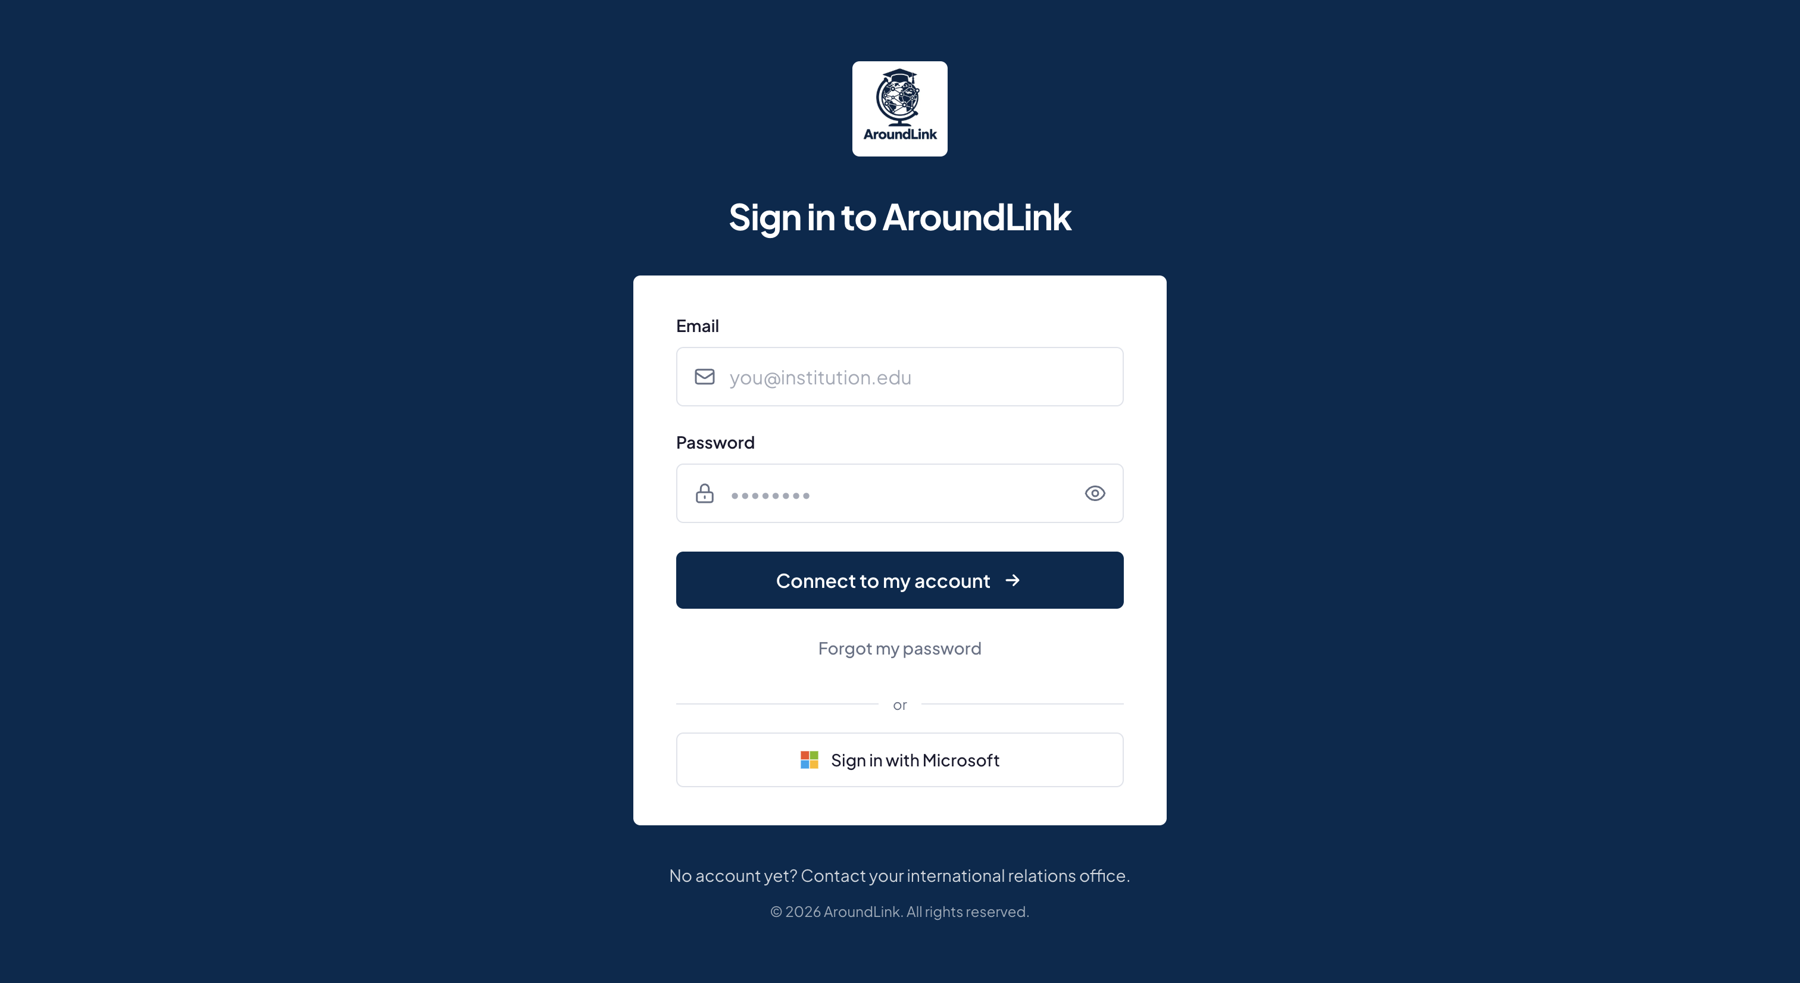
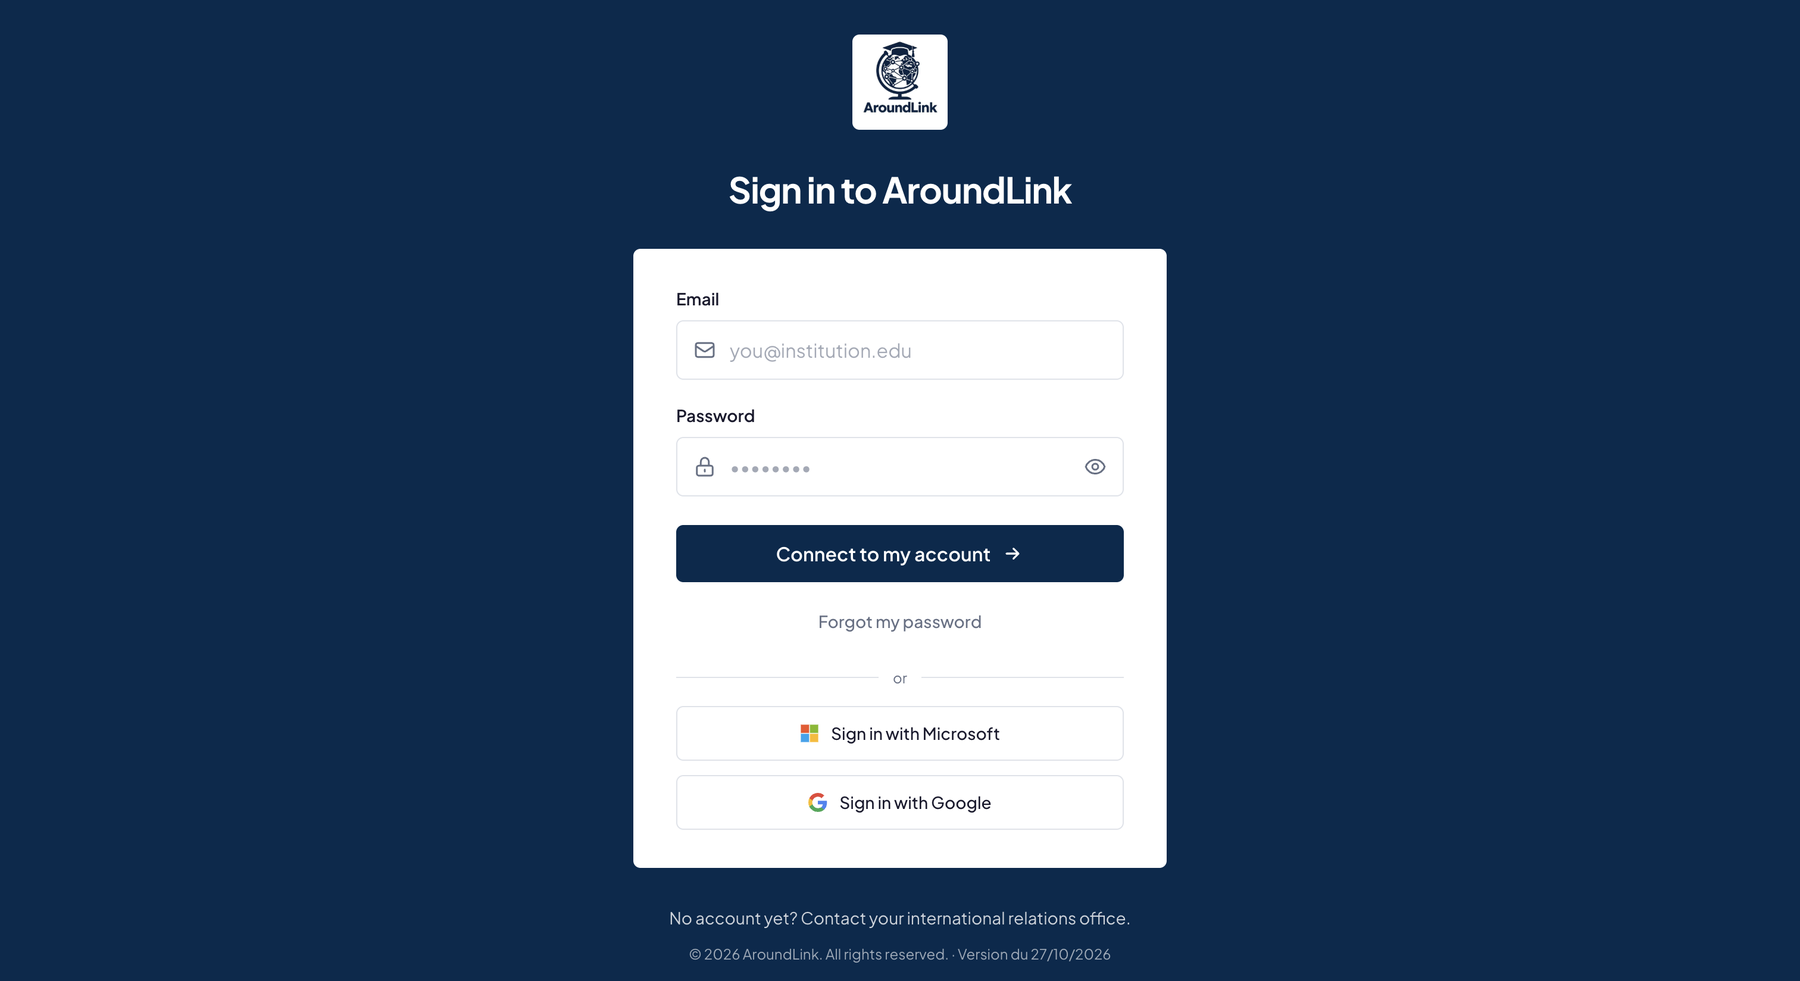
docs: la connexion Google à l'écran, l'import des cours, et la liste de ce qui manque
Trois captures du 01/11, et une fonctionnalité que j'avais classée à tort
comme un ajustement.

- connexion.png : REMPLACÉE. L'ancienne (31/08) ne montrait que Microsoft ;
  la légende promettait Google depuis hier sans que l'image le montre.
- import-cours.png : l'écran dit ce qu'il exige AVANT qu'on ouvre le fichier.
  La section gagne ce que je ne pouvais pas deviner du code seul : les trois
  temps, l'ordre de vérification des identifiants, le réimport qui met à jour
  au lieu de dupliquer, et la colonne renommée lue comme manquante.
- things-to-do.png : une VRAIE fonctionnalité. Je l'avais rangée dans les
  ajustements ; la capture montre qu'elle nomme la CONSÉQUENCE de chaque
  manque — « vos partenaires vous écrivent pour les demander » — et non un
  pourcentage. Section neuve dans Mon établissement, avec la règle qui la
  rend supportable : elle disparaît quand il n'y a plus rien.

Changed region(s): [[0.3422, 0.0306, 0.6533, 0.6728], [0.3422, 0.7339, 0.6533, 0.9786]]

diff --git a/docs/etablissement/partenaires.fr.md b/docs/etablissement/partenaires.fr.md
@@ -375,7 +375,17 @@ Deux colonnes le résument dans la liste : **Open to** — les promotions — et
 vous repartez de contrats pédagogiques signés il y a des années, la saisie manuelle n'est
 pas tenable — et c'est pourtant là que se trouve la matière la plus utile à vos étudiants.
 
-**Comment ça marche.** Vous importez un fichier de cours sur la fiche d'un partenaire.
+**Comment ça marche.** **Paramètres ▸ Integrations ▸ Import Courses**, en trois temps :
+vous téléchargez le gabarit, vous téléversez votre fichier pour **prévisualiser chaque
+ligne** et corriger les erreurs sur place, puis vous confirmez — seules les lignes valides
+sont écrites. Excel ou CSV.
+
+Chaque ligne a besoin du **nom du cours** et d'**une façon de désigner le partenaire** :
+votre code interne, son domaine, ou son identifiant ROR — vérifiés dans cet ordre.
+
+![L'écran d'import des cours](../assets/screenshots/import-cours.png)
+
+*L'écran annonce ce qu'il exige avant que vous ouvriez le fichier : les colonnes obligatoires, les huit colonnes acceptées, et les formats.*
 
 !!! info "Le gabarit est volontairement tolérant"
     Les **crédits** et le **code ISCED** sont **facultatifs** : un contrat signé il y a cinq
@@ -383,7 +393,14 @@ pas tenable — et c'est pourtant là que se trouve la matière la plus utile à
     fichier pour une donnée que personne ne retrouvera.
 
     En revanche, **une ligne doit porter au moins un des trois identifiants** — sans quoi
-    elle est refusée : on ne saurait pas de quel cours elle parle.
+    elle est refusée : on ne saurait pas de quel partenaire elle parle.
+
+    Une colonne que le gabarit ne liste pas est simplement ignorée : vous pouvez laisser vos
+    propres notes dans le fichier. Mais une colonne **renommée** est lue comme manquante.
+
+!!! tip "Réimporter met à jour, ne duplique pas"
+    Le même fichier passé une seconde fois **met à jour** les cours au lieu d'en créer des
+    doubles. Vous pouvez donc corriger votre fichier et le repasser sans faire de ménage.
 
 !!! warning "Un cours sans crédits n'est pas un cours à zéro crédit"
     L'écran affiche un **tiret**, pas un zéro, et la donnée reste vide plutôt que fausse.

diff --git a/docs/etablissement/mon-etablissement.fr.md b/docs/etablissement/mon-etablissement.fr.md
@@ -101,6 +101,40 @@ L'écran rappelle aussi **quand vous avez annoncé pour la dernière fois**.
 > En juin, le bureau relève ses exigences d'anglais de B2 à C1. Il ouvre l'aperçu, voit
 > que l'annonce partira à 47 partenaires, et l'envoie. Aucun mail à rédiger.
 
+## Ce qu'il vous reste à remplir
+
+**À quoi ça sert.** Une fiche vide ne se signale pas toute seule. Les compteurs de l'index
+disent ce que chaque rubrique **contient** — jamais ce qui **manque**, ni ce que ça coûte.
+Un établissement peut passer des mois sans son site web renseigné : un champ, un clic, et
+rien ne le lui avait jamais dit.
+
+**Pour qui.** <span class="al-audience">gestionnaire RI / coordinateur</span>
+
+**Comment ça marche.** Une pastille **« things to do »** apparaît en bas à droite de vos
+écrans, avec le nombre de choses qui restent. Elle ouvre une liste où chaque ligne dit
+**quoi faire** et surtout **ce que ça change** :
+
+| Ce qu'il manque | Ce que ça coûte |
+|---|---|
+| Vos coordonnées | *vos étudiants et vos partenaires n'ont aucun moyen de vous joindre* |
+| Vos dates de semestre | *vos partenaires vous écrivent pour les demander* |
+| Vos niveaux de langue | *vos étudiants candidatent sans savoir s'ils sont éligibles* |
+| Les photos de votre campus | *votre page s'ouvre sur un bandeau vide* |
+| Votre catalogue de cours | *vos étudiants ne peuvent pas composer leur contrat d'études* |
+
+![La liste de ce qu'il reste à remplir](../assets/screenshots/things-to-do.png)
+
+*Ce qui reste et ce qui est fait. Chaque ligne nomme la conséquence, pas un pourcentage.*
+
+!!! note "Pas de jauge, pas de pourcentage"
+    « Vous êtes à 36 % » ne dit pas quoi faire. Une ligne qui annonce la conséquence le
+    dit — c'est elle qui fait agir, pas le chiffre.
+
+!!! tip "Elle disparaît quand il n'y a plus rien"
+    Il n'existe pas d'état « tout est fait » : quand la liste est vide, la pastille quitte
+    l'écran. Un rappel qu'on ne peut pas faire taire devient un meuble, et on cesse de le
+    voir — y compris le jour où il a quelque chose à dire.
+
 ## Modération des avis étudiants
 
 **À quoi ça sert.** Vous collectez les avis d'étudiants de retour de mobilité (note,

diff --git a/docs/etablissement/mon-etablissement.en.md b/docs/etablissement/mon-etablissement.en.md
@@ -98,6 +98,39 @@ The screen also reminds you **when you last announced**.
 > In June, the office raises its English requirement from B2 to C1. It opens the preview,
 > sees the announcement would go to 47 partners, and sends it. No email to write.
 
+## What you still have to fill in
+
+**What it's for.** An empty fiche does not announce itself. The index counters say what each
+section **contains** — never what is **missing**, nor what it costs. An institution can go
+months without its website filled in: one field, one click, and nothing ever told them.
+
+**Who it's for.** <span class="al-audience">RI manager / coordinator</span>
+
+**How it works.** A **"things to do"** pill appears at the bottom right of your screens,
+with the number of things left. It opens a list where each line says **what to do** and,
+above all, **what it changes**:
+
+| What is missing | What it costs |
+|---|---|
+| Your contact details | *students and partners have no way to reach you* |
+| Your semester dates | *partners email you to ask* |
+| Your language levels | *students apply without knowing if they qualify* |
+| Photos of your campus | *your page opens on an empty banner* |
+| Your course catalogue | *students can't build a learning agreement* |
+
+![The list of what is left to fill in](../assets/screenshots/things-to-do.png)
+
+*What is left and what is done. Each line names the consequence, not a percentage.*
+
+!!! note "No gauge, no percentage"
+    "You are at 36%" does not say what to do. A line that states the consequence does — that
+    is what makes you act, never the figure.
+
+!!! tip "It disappears when nothing is left"
+    There is no "all done" state: when the list is empty, the pill leaves the screen. A
+    reminder you cannot silence becomes furniture, and you stop seeing it — including the
+    day it has something to say.
+
 ## Student-review moderation
 
 **What it's for.** You collect reviews from students returning from mobility

diff --git a/docs/etablissement/partenaires.en.md b/docs/etablissement/partenaires.en.md
@@ -354,7 +354,16 @@ Two columns summarise this in the list: **Open to** — the promotions — and
 from learning agreements signed years ago, typing is not viable — and that is precisely
 where the material most useful to your students sits.
 
-**How it works.** You import a course file on a partner's fiche.
+**How it works.** **Settings ▸ Integrations ▸ Import Courses**, in three steps: you
+download the template, you upload your file to **preview every row** and fix errors inline,
+then you confirm — only valid rows are written. Excel or CSV.
+
+Each row needs the **course name** and **one way to name the partner**: your own internal
+code, its domain, or its ROR id — checked in that order.
+
+![The course import screen](../assets/screenshots/import-cours.png)
+
+*The screen states what it requires before you even open the file: the mandatory columns, the eight columns it accepts, and the formats.*
 
 !!! info "The template is deliberately tolerant"
     **Credits** and the **ISCED code** are **optional**: an agreement signed five years ago
@@ -362,7 +371,14 @@ where the material most useful to your students sits.
     for a value nobody will ever recover.
 
     However, **a row must carry at least one of the three identifiers** — otherwise it is
-    refused: we would not know which course it is about.
+    refused: we would not know which partner it is about.
+
+    A column the template does not list is simply ignored: you can keep your own notes in
+    the file. But a **renamed** column is read as a missing one.
+
+!!! tip "Re-importing updates, it does not duplicate"
+    The same file passed a second time **updates** the courses instead of creating doubles.
+    You can therefore fix your file and pass it again without any cleaning up.
 
 !!! warning "A course without credits is not a zero-credit course"
     The screen shows a **dash**, not a zero, and the value stays empty rather than wrong.
